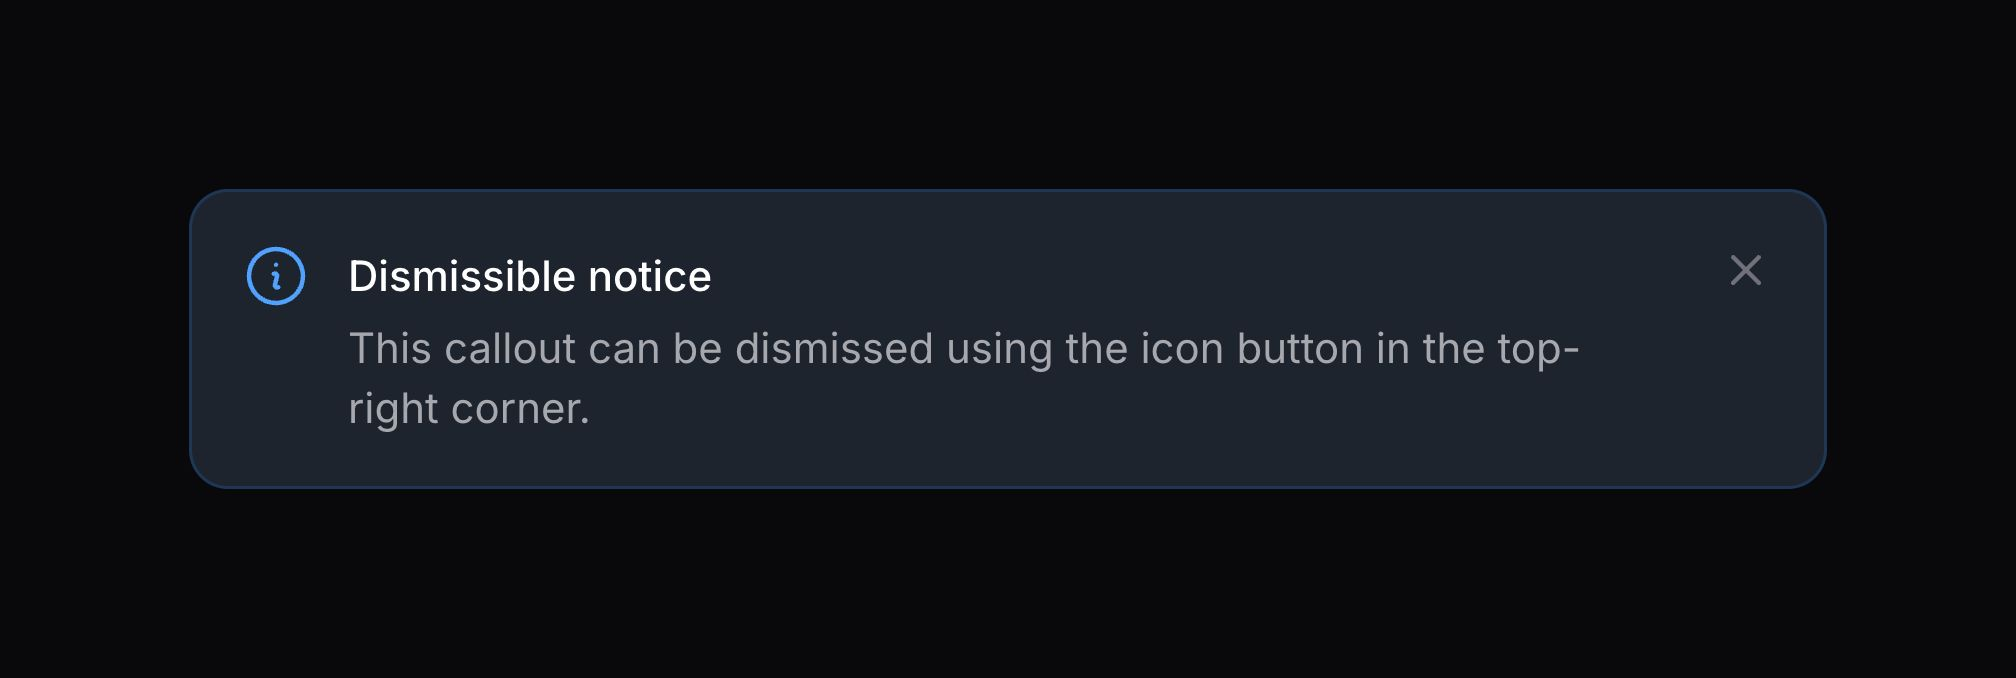
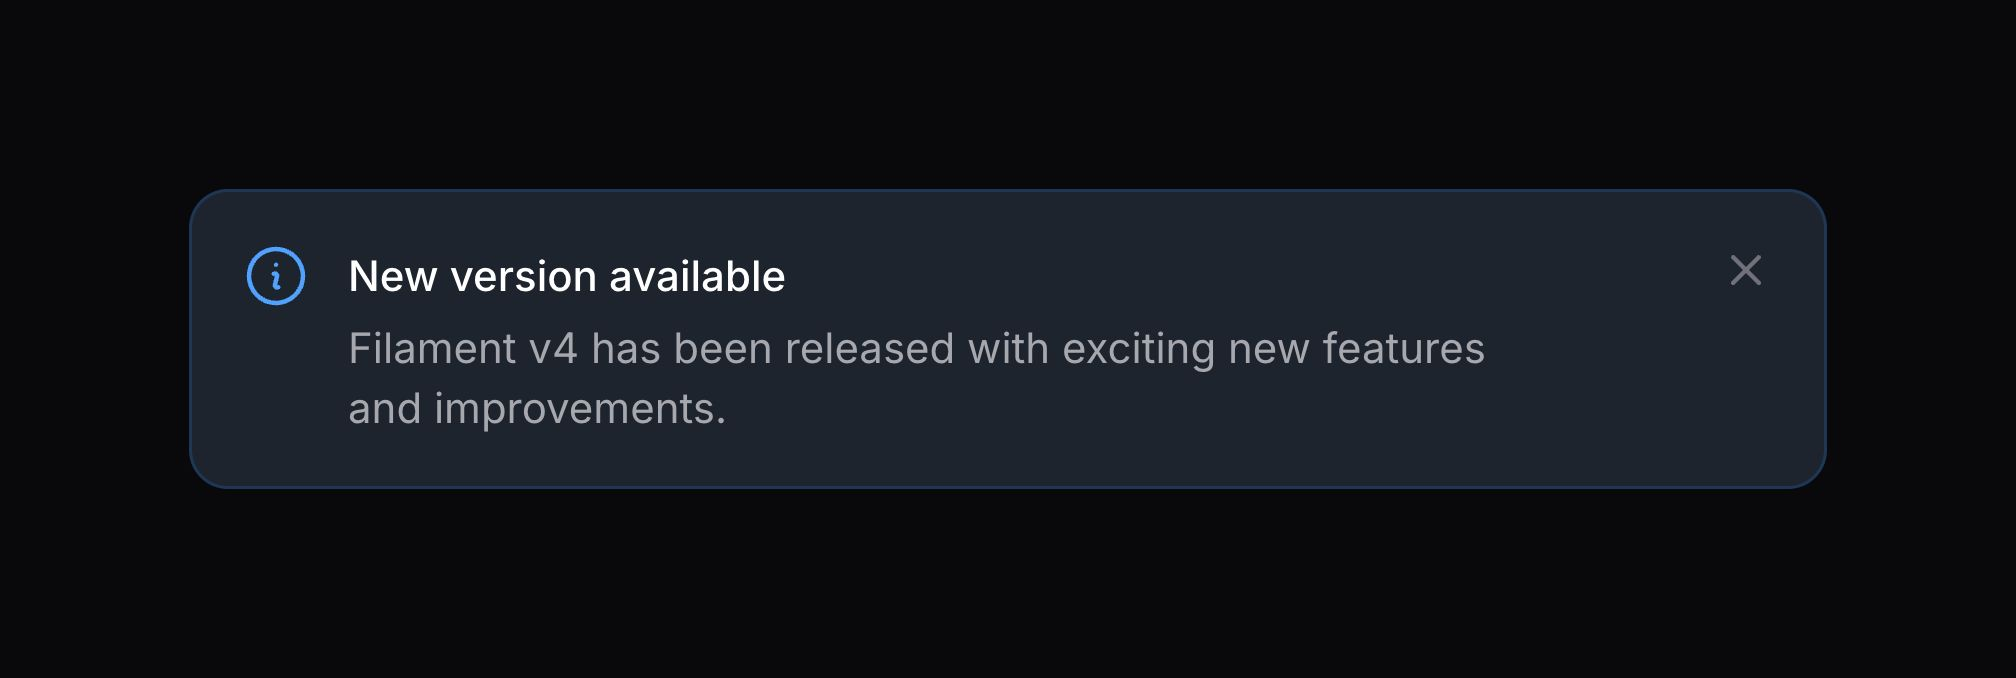
better example

Changed region(s): [[0.1562, 0.4956, 0.7812, 0.5575], [0.1562, 0.3717, 0.4062, 0.4336], [0.1562, 0.5885, 0.375, 0.6504]]

diff --git a/docs-assets/app/app/Livewire/Schemas/LayoutDemo.php b/docs-assets/app/app/Livewire/Schemas/LayoutDemo.php
@@ -860,8 +860,8 @@ class LayoutDemo extends Component implements HasActions, HasSchemas
                         'class' => 'p-16 max-w-2xl',
                     ])
                     ->schema([
-                        Callout::make('Dismissible notice')
-                            ->description('This callout can be dismissed using the icon button in the top-right corner.')
+                        Callout::make('New version available')
+                            ->description('Filament v4 has been released with exciting new features and improvements.')
                             ->info()
                             ->controlActions([
                                 Action::make('dismiss')

diff --git a/packages/schemas/docs/06-callouts.md b/packages/schemas/docs/06-callouts.md
@@ -222,22 +222,24 @@ Callout::make('Backup complete')
 
 ## Adding control actions to the callout
 
-You can add control [actions](../actions) to the top-right corner of the callout using the `controlActions()` method:
+You can add control [actions](../actions) to the top-right corner of the callout using the `controlActions()` method. For example, you could add a dismiss button that hides the callout for the duration of the user's session:
 
 ```php
 use Filament\Actions\Action;
 use Filament\Schemas\Components\Callout;
 use Filament\Support\Icons\Heroicon;
 
-Callout::make('Dismissible notice')
-    ->description('This callout can be dismissed using the icon button in the top-right corner.')
+Callout::make('New version available')
+    ->description('Filament v4 has been released with exciting new features and improvements.')
     ->info()
     ->controlActions([
         Action::make('dismiss')
             ->icon(Heroicon::XMark)
             ->iconButton()
-            ->color('gray'),
+            ->color('gray')
+            ->action(fn () => session()->put('new-version-callout-dismissed', true)),
     ])
+    ->visible(fn (): bool => ! session()->get('new-version-callout-dismissed'))
 ```
 
 <AutoScreenshot name="schemas/layout/callout/control-actions" alt="Callout with control actions" version="4.x" />

diff --git a/CLAUDE.md b/CLAUDE.md
@@ -242,7 +242,12 @@ Screenshots are in `docs-assets/screenshots/`. To add new screenshots:
    },
    ```
 
-3. **Generate screenshots**:
+3. **Build assets** if you changed any CSS or JS files (the docs app uses the compiled output):
+   ```bash
+   npm run build
+   ```
+
+4. **Generate screenshots**:
    ```bash
    # Terminal 1: Start the app server (must use default port 8000)
    cd docs-assets/app && php artisan serve
@@ -256,6 +261,6 @@ Screenshots are in `docs-assets/screenshots/`. To add new screenshots:
 
    **Important:** The script expects `http://127.0.0.1:8000`. Don't use a custom port.
 
-4. **Use in docs** with `<AutoScreenshot name="schemas/layout/my-component/simple" alt="Description" version="4.x" />`
+5. **Use in docs** with `<AutoScreenshot name="schemas/layout/my-component/simple" alt="Description" version="4.x" />`
 
 Screenshots are generated in `images/light/` and `images/dark/`. Use natural, realistic content - not test-like examples.
